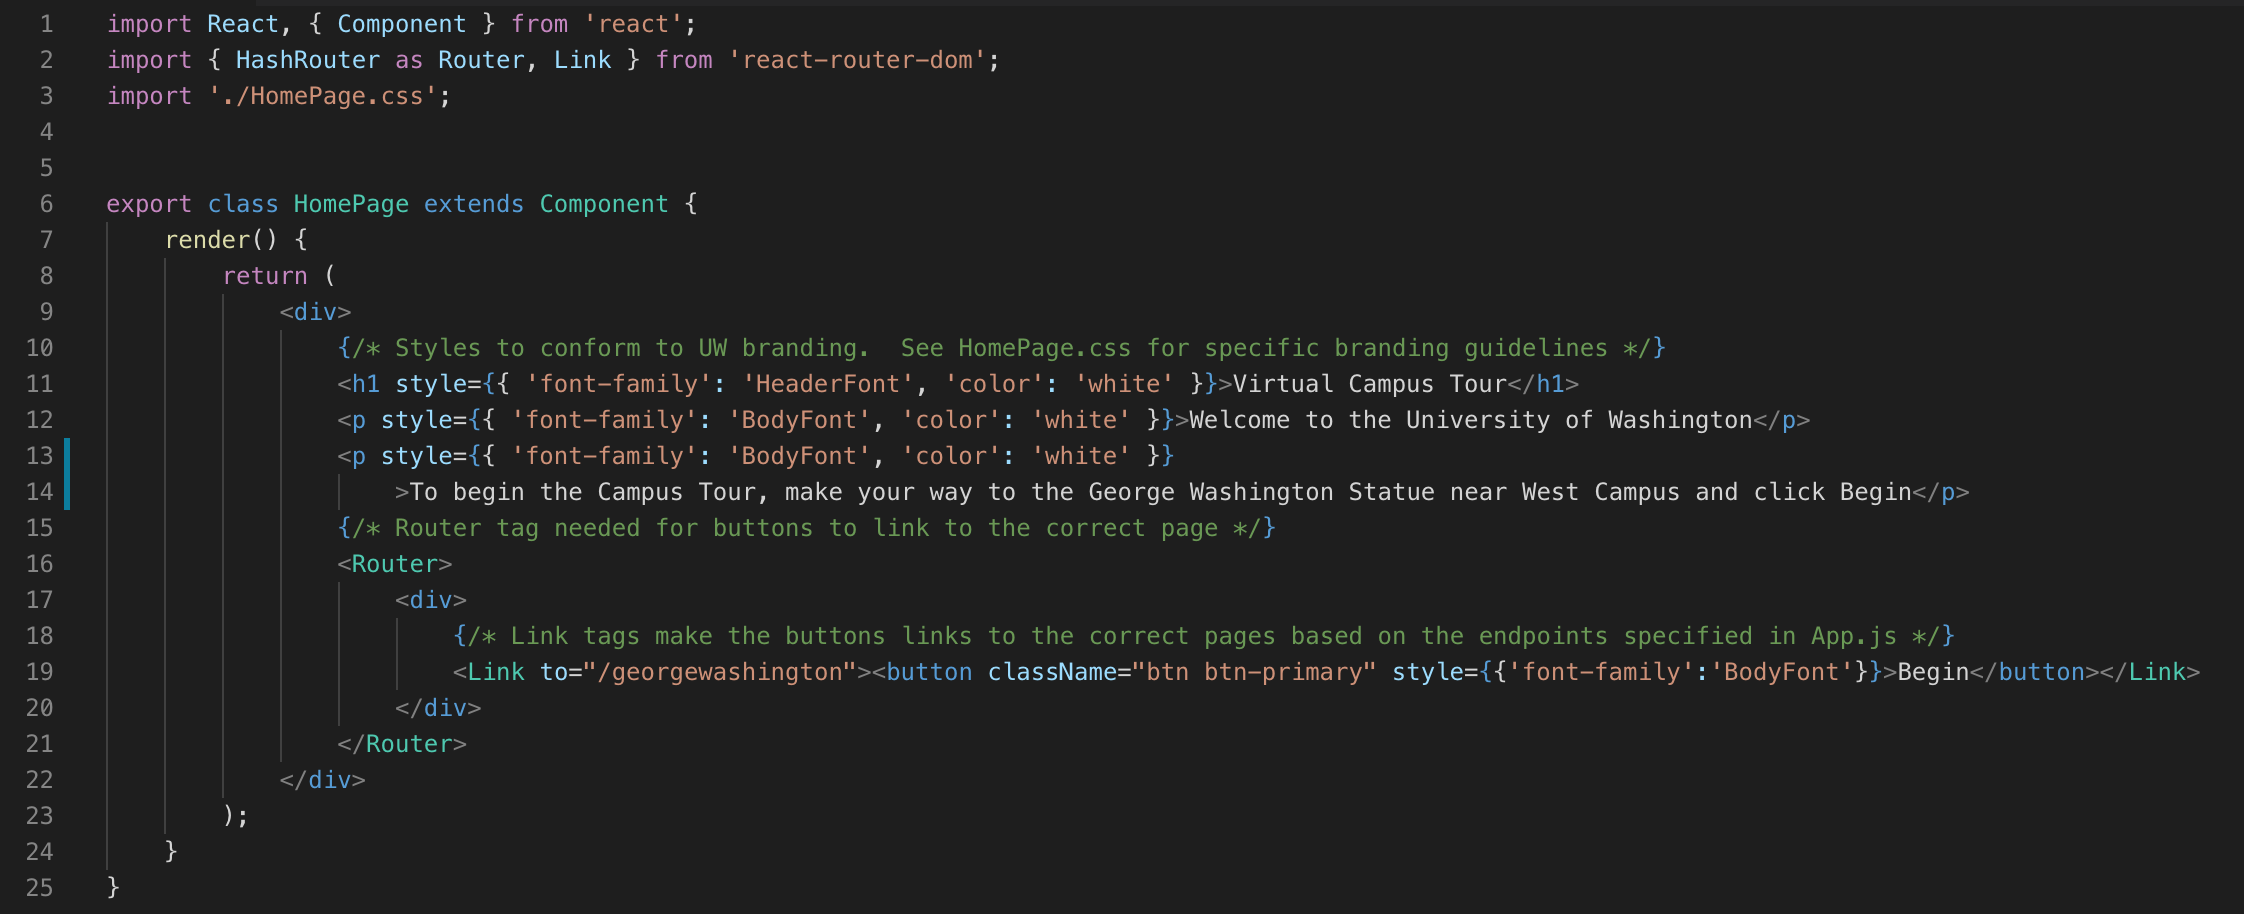
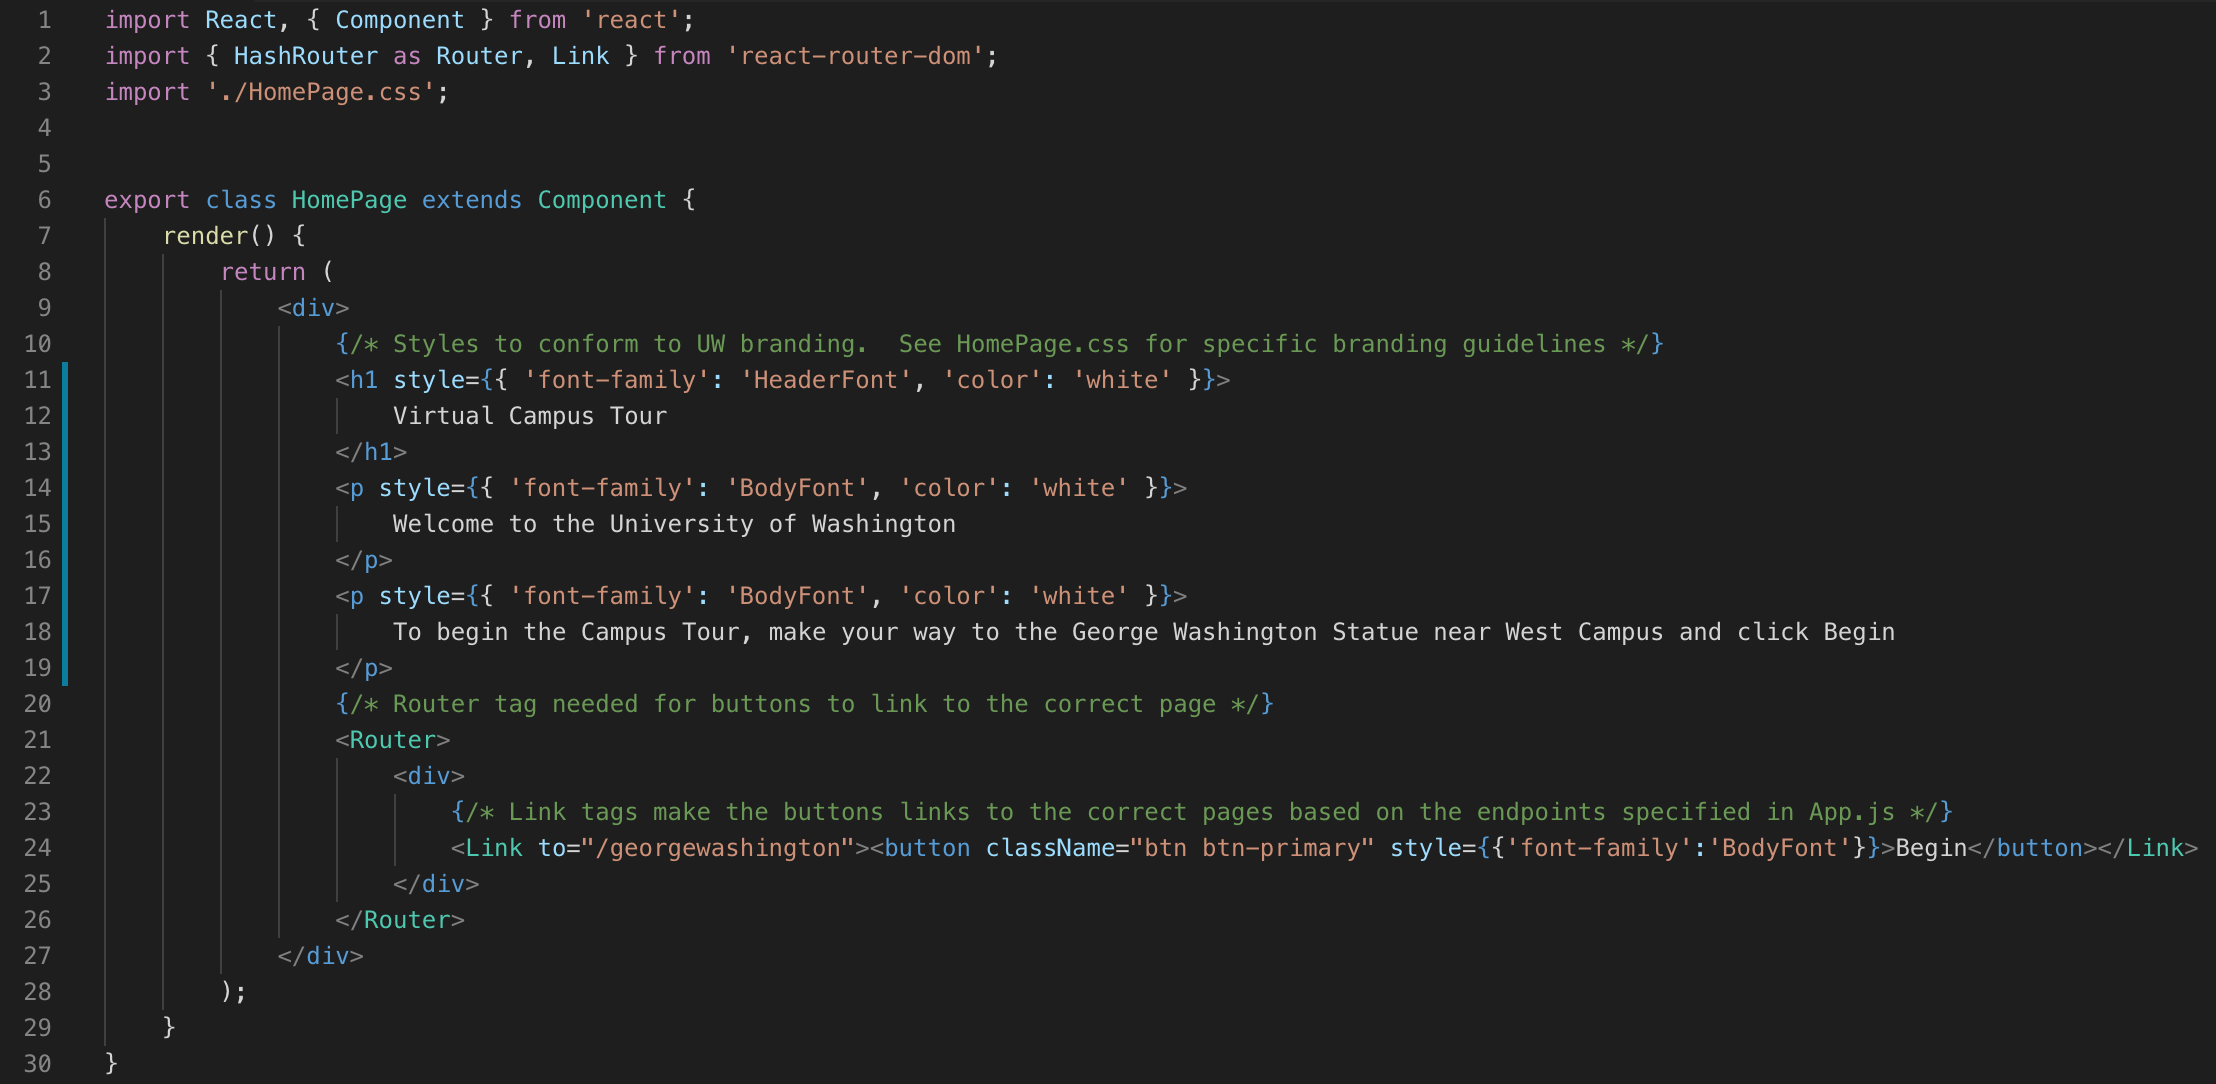
Change wording documentation

diff --git a/src/HomePage.js b/src/HomePage.js
@@ -8,10 +8,15 @@ export class HomePage extends Component {
         return (
             <div>
                 {/* Styles to conform to UW branding.  See HomePage.css for specific branding guidelines */}
-                <h1 style={{ 'font-family': 'HeaderFont', 'color': 'white' }}>Virtual Campus Tour</h1>
-                <p style={{ 'font-family': 'BodyFont', 'color': 'white' }}>Welcome to the University of Washington</p>
-                <p style={{ 'font-family': 'BodyFont', 'color': 'white' }}
-                    >To begin the Campus Tour, make your way to the George Washington Statue near West Campus and click Begin</p>
+                <h1 style={{ 'font-family': 'HeaderFont', 'color': 'white' }}>
+                    Virtual Campus Tour
+                </h1>
+                <p style={{ 'font-family': 'BodyFont', 'color': 'white' }}>
+                    Welcome to the University of Washington
+                </p>
+                <p style={{ 'font-family': 'BodyFont', 'color': 'white' }}>
+                    To begin the Campus Tour, make your way to the George Washington Statue near West Campus and click Begin
+                </p>
                 {/* Router tag needed for buttons to link to the correct page */}
                 <Router>
                     <div>

diff --git a/README.md b/README.md
@@ -89,10 +89,14 @@ We have now successfully rebuilt the application.  Now that the changes are fixe
 ### Common Changes & How to Make Them
 I anticipate that the most common change would be to the wording of a page in the application, updating one of the map images, or changing the branding/font.  For each of these three cases, I will provide exact replication steps of how to make the changes in the code.  If performing this maintenance, I will assume that you have already completed steps 1-5 above.
 
-#### Changing Wording of a Webpage
+#### 1. Changing Wording of a Webpage
 We are going to use HomePage.js as our example file.  This is the first page a visitor sees when they reach the website.  Below is a screenshot of what the file will, more or less, look like.  
 ![image of HomePage.js](./maintenanceImages/homepage1.png)
 
+To change any of the text on the webpage, the only lines you will want to edit are boxed below in red.
+![image of HomePage.js](./maintenanceImages/homepage2.png)
+
+You can simply delete the text you want to replace and retype the new text.  Once you're done making edits, return to the maintenance instructions above to save and deploy your changes.
 ## Potential Future Features
 As a full-time student, there are some features that I do not have the time to implement.  These features and edits would add to the aesthetic and overall functionality of the application, but the application is completely functional and usable without these features.  
     - Perfectly sized images that are responsive to every possible screen size.  
